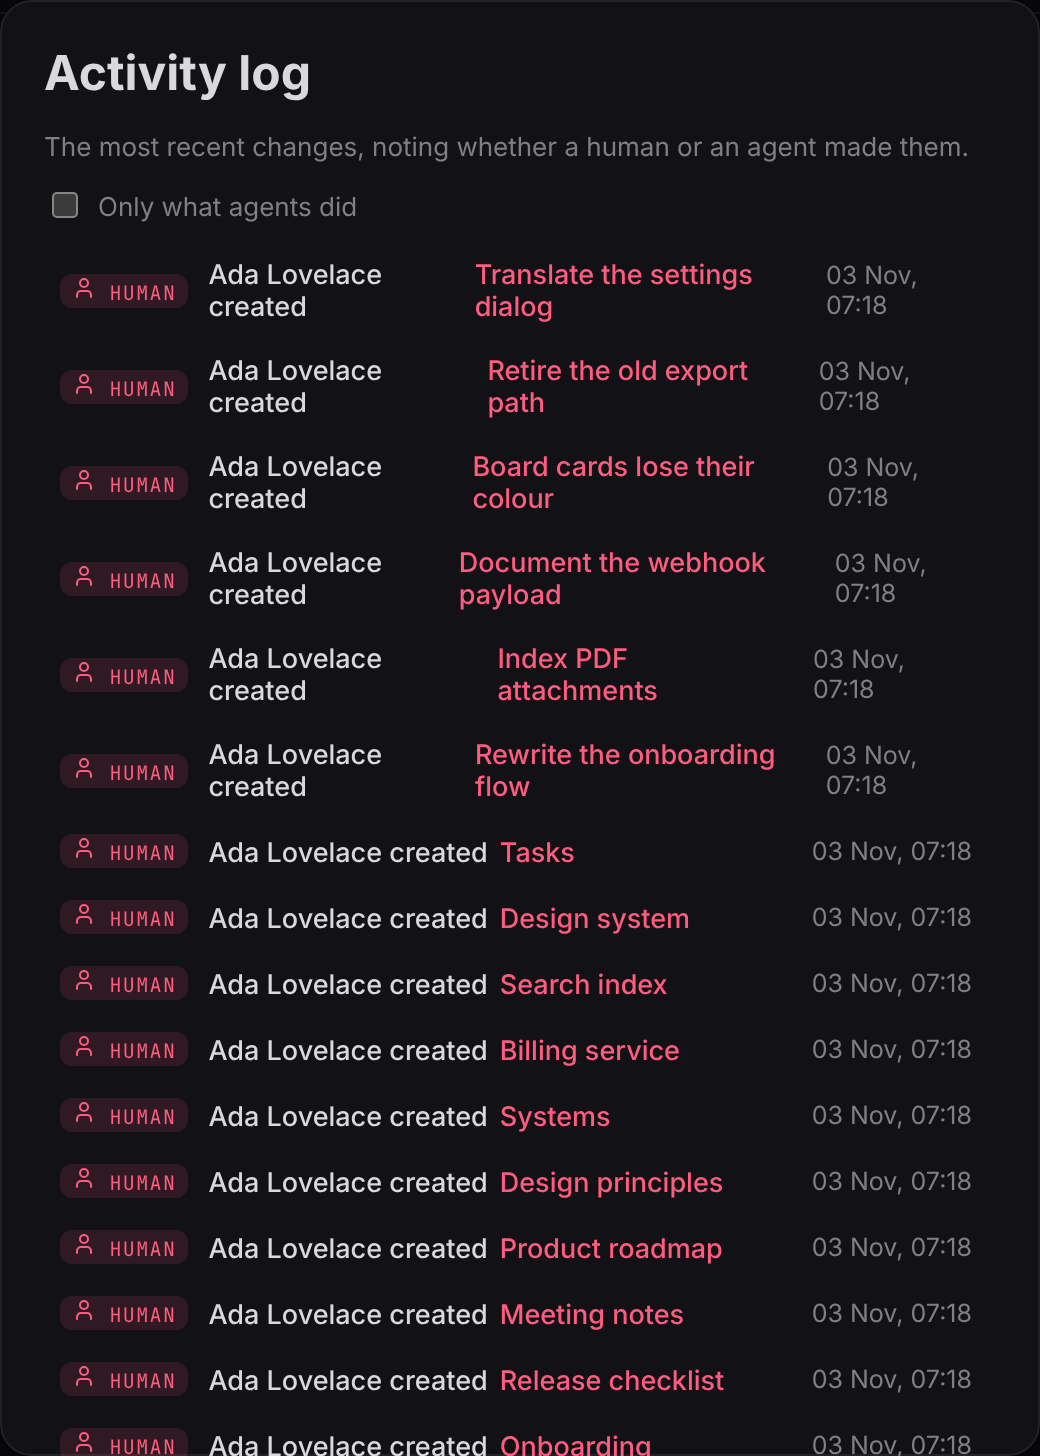
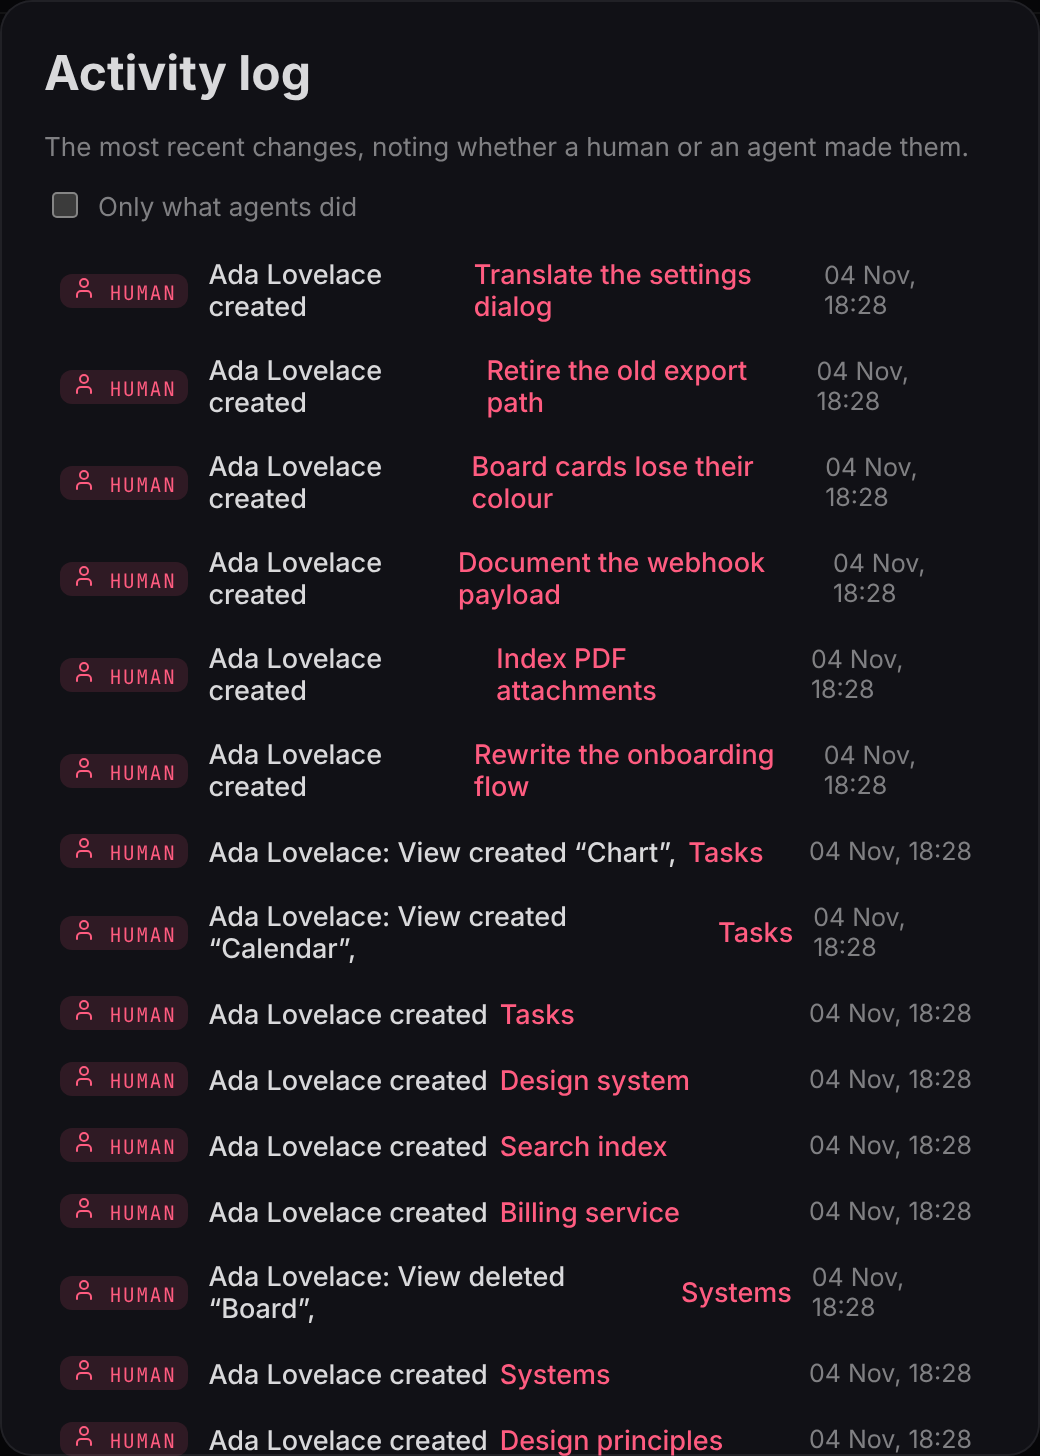
The wiki describes the views lock and view entries in the activity log
views.md gains "Locking a database's views": what is offered while
locked, what is not covered (rows, the schema, an embed's own filters),
the refusal, and that agents see the lock but cannot lift it. It also
corrected a claim that an open browser keeps old views until a reload:
it fetches them again when the database changes. history-and-audit.md
lists the view entries and that set_view/delete_view no longer write the
generic one; mcp-tools.md documents views_locked and the refusals.

The registry gains a View lock row: a new path that writes a database's
views calls checkViewsUnlocked and auditViewChanges, with a test.
The two activity-log screenshots are retaken.

Claude-Session: https://claude.ai/code/session_01GhcW33DagCpbrFHHXQVrFu

diff --git a/wiki/views.md b/wiki/views.md
@@ -495,6 +495,7 @@ right, with `›` where a further list opens:
 | **Remove view** | In red, last: removes this view (not its rows). Not offered when it is the only view. |
 | *Database settings* | |
 | **Edit properties** | The schema editor: add a property, change a type, edit select options. It edits the database, not the view, so it changes every view at once. This is what the empty-state messages point at. |
+| **Lock views** / **Unlock views** | Locks every view of this database against changes, or lifts the lock. See [Locking a database's views](#locking-a-databases-views). |
 
 Escape closes the menu and puts focus back on **Settings**. There is no item to
 change a view's type (a board into a table); create a new view instead.
@@ -685,9 +686,17 @@ missing.
 Changes save as you make them, and are what everybody gets the next time they
 open the collection. Row changes travel live: a card someone else moves moves on
 your screen too, in this collection and in the same collection embedded in a
-document. A change to the view itself (a filter, the sort, hidden columns, a new
-tab) does not. A second browser that already had the collection open keeps the
-configuration it fetched when it opened, and picks the new one up on a reload.
+document. A change to the views (a filter, the sort, hidden columns, a new tab,
+the lock) reaches a browser that already has the collection open too, within
+a second or so: it fetches the schema and the views again whenever the
+collection changes.
+
+Every change to a view that matters is in the [activity
+log](history-and-audit.md#what-is-recorded): a view created, removed or
+renamed, and a change to its filters, sort, grouping, dates or a chart's
+grouping, one entry per view. Column widths, column order, hidden columns, how
+rows open, a chart's style and a form's texts are left out, so a table resized
+ten times does not bury the change somebody is looking for.
 
 An embedded collection is the same collection, with the same views: changing a
 filter there changes it everywhere.
@@ -698,6 +707,46 @@ do. What it can do is copy a whole workspace's structure:
 take the databases with their schemas *and* their views, without rows and without
 documents. Filters on a relation are dropped on the way, since the rows they name
 are not copied.
+
+## Locking a database's views
+
+When a database's views are set up the way the team wants them, **Settings** →
+**Lock views** protects them from accidental changes. Anyone who can edit the
+database can lock and unlock; the lock is for everybody, on every view of that
+database, until somebody unlocks it.
+
+While the views are locked:
+
+- **Views locked** stands after the view tabs. Click it to see who locked them
+  and when. Readers see it too.
+- Nothing that changes a view is offered: **Settings** shows only **Edit
+  properties** and **Unlock views**; there is no `+` to add a view, no
+  right-click menu or double-click rename on the tabs, no moving, hiding or
+  resizing of columns, no **Group** on a board, no chart settings, and a form's
+  heading and description cannot be edited.
+- **Filter** and **Sort** are not offered on the database's own page either.
+  **Filtered** and **Sorted** beside the tabs say what the view does. Changing
+  a filter just for yourself, while the views stay as they are for everyone
+  else, is planned (spec 013) and not built yet.
+- Rows work as before: new rows, edits, moving a card between columns.
+- The schema is not locked: **Edit properties** still adds, renames and
+  changes properties. Removing a property that a view filters, sorts or groups
+  by is refused, because removing it would change that view; unlock first.
+- In a document, the database's own filter and sort controls stay: an
+  embedded database's filters and sort belong to the document, not to the
+  views, and the lock does not cover them.
+
+The server enforces it, not just the interface: a save that would change a
+locked view is refused with *This database's views are locked. Unlock them to
+change a view.*, from the browser, from a script and from an agent alike. A
+browser that still showed the controls when somebody else locked the views
+gets that message once, and the controls go.
+
+Agents see the lock but cannot lift it: `get_collection` returns
+`views_locked`, and `set_view` and `delete_view` refuse while it is on. Locking
+and unlocking need a browser sign-in (`PUT` and `DELETE
+/api/collections/{id}/lock`); an API token gets *This action requires signing
+in through a browser*. Both are recorded in the activity log.
 
 ## Views over MCP
 

diff --git a/wiki/mcp-tools.md b/wiki/mcp-tools.md
@@ -761,14 +761,16 @@ name`; `options on "Name" must be a list`.
 | --- | --- | --- |
 | `page_id` | string | yes |
 
-Returns `{page_id, schema, views}`: the full property schema **and** every view
+Returns `{page_id, schema, views, views_locked}`: the full property schema **and** every view
 with its id. A chart view carries `chartKind`, `groupBy`, `groupPeriod`, `agg`,
 `aggProp`, `showEmpty`, `showZero`, `chartSort`, `hiddenGroups` and
 `chartStyle` (see `set_view`). A view that opens its rows in a peek carries
 `"openIn": "side_peek"` or `"center_peek"`; no key means a full page (see
-`set_view`). Call this before any other database tool: property ids, select
-option ids and view ids all come from here. Errors: `page "…" is not a
-database`.
+`set_view`). `views_locked` is `{"by": "<user id>", "at": "<time>"}` when a
+person has locked the database's views, or `null`; while it is set, `set_view`
+and `delete_view` are refused. Call this before any other database tool:
+property ids, select option ids and view ids all come from here. Errors:
+`page "…" is not a database`.
 
 ### update_schema
 
@@ -1111,6 +1113,17 @@ database`; `filter N: unknown op "x". Use is, is_not, contains, gt, lt, between,
 is_empty or is_not_empty`; `view "…" not found — call get_collection for the
 ids`.
 
+**Refused while the database's views are locked** (`get_collection`'s
+`views_locked`): `this database's views are locked; a person can unlock them in
+the interface`. Nothing is changed. Locking and unlocking are for people in the
+browser only ([Agent access](agent-access.md)); a call that would leave the
+views exactly as they are still goes through.
+
+Each call is logged as the view entries it makes, as an agent: *View created*,
+*View renamed*, *View changed* (filters, sort, grouping, dates, a chart's
+grouping and totals). A call that changes only layout (hidden columns, column
+order, how rows open, a chart's style) leaves no entry.
+
 ### delete_view
 
 | Parameter | Type | Required |
@@ -1124,6 +1137,9 @@ deliberate choice and not a value an agent lands on by mistake.
 
 Errors: `cannot delete the last view — a database needs at least one`;
 `view "…" not found — call get_collection for the ids`.
+
+Refused while the database's views are locked (see `set_view`). Each deleted
+view is one *View deleted* entry in the activity log.
 
 ## History, comments and notes
 

diff --git a/wiki/history-and-audit.md b/wiki/history-and-audit.md
@@ -191,6 +191,8 @@ tail. An instance where nothing has happened says *Nothing has happened yet.*
 | deleted the workspace: / took over the workspace: / adopted the ownerless workspace: | workspace lifecycle |
 | handed the instance to: | the owner role moved to another account |
 | took emergency access: / ended the emergency access: | see below |
+| View created / View deleted / View renamed / View changed | a database's view, by a person or an agent; the entry names the view (both names for a rename) and links the database. *View changed* is a change to its filters, sort, grouping, dates or a chart's grouping and totals. Column widths, column order, hidden columns, how rows open, a chart's style and a form's texts leave no entry. |
+| Views locked by … / Views unlocked by … | somebody locked or unlocked a database's views ([Views](views.md#locking-a-databases-views)) |
 
 Note what *changed* does **not** cover: `update_page` over MCP touches metadata
 only, and refuses a call that names none of those six fields. It never writes a
@@ -209,9 +211,14 @@ it any more.
 
 **Every mutating call an agent makes is one entry**, filed under the tool's own
 name, with the account's name and *(MCP)* after it, and the tool's reply as the
-detail. Two tools are deliberately not double-recorded: an agent's check-in
-writes its own entry with the note as the detail, and `note` writes nothing here
-because the raw trail on the page already is the record.
+detail. Four tools are deliberately not double-recorded: an agent's check-in
+writes its own entry with the note as the detail, `note` writes nothing here
+because the raw trail on the page already is the record, and `set_view` and
+`delete_view` write the view entries above instead, one per changed view, and
+none for a change of layout only.
+
+**Take back** is offered only for property changes. A view entry keeps the
+view's filters (or name) before and after, but taking it back is not built.
 
 A [form](forms.md) submitted by somebody with no account appears as *public
 form* creating a page: the form is the actor.

diff --git a/.specify/memory/surfaces.md b/.specify/memory/surfaces.md
@@ -35,3 +35,4 @@ concept only matters to one feature, it stays in that feature's plan.
 | Stored data | A change to what is stored (a table, a column, an index, a JSON shape inside a column) is a new upgrade step in `server/upgrade_steps.go` with a fixture database written just before it (`server/testdata/upgrade/step-<N-1>.db`); an earlier step is never edited (`TestUpgradeStepOneIsFrozen`, `check-upgrades.mjs`). Expand first, contract in a later release | backend | 2026-10-29 | spec 008 |
 | Outside names | A name something outside this code depends on (environment variable, cookie, header, browser-storage key, file in the data directory, archive entry, command, service unit, image, app id, URL scheme, calendar id) is never renamed silently: the plan gives it one of three treatments (moved once, refused with a sentence, or gone and named in the release notes) and lists it as spec 011's `data-model.md` does; `check-names.mjs` keeps the old names out | backend | 2026-10-29 | spec 011 |
 | Menu icons | A new menu is built with `ui/Menu`, never by hand (a right-click opens the same `Menu` at the pointer); a new menu item is a `MenuItem` with a function from `web/src/menuIcons.ts`; a new function gets an icon no other function has, and a function keeps one icon in every menu; a list of values inside a menu is a `MenuValues` with its reason; `check-menu-icons.mjs` enforces it, the editor library's `/` and block menu items included | ui | 2026-11-03 | spec 010 |
+| View lock | A new path that writes a database's views (a route, a tool, an import or copy that rewrites an existing database's views) calls `checkViewsUnlocked` before it saves and `auditViewChanges` after, and a test with the lock on shows it refused (`TestEveryViewDoorIsRefusedWhileLocked` lists the doors by calling them) | backend | 2026-11-04 | spec 013 |

diff --git a/specs/013-view-filters-and-lock/tasks.md b/specs/013-view-filters-and-lock/tasks.md
@@ -60,8 +60,8 @@ description: "Tasks for a view's filters changed for oneself, quick filters, sub
 - [x] T013 [US5] [test] Go tests: each kind once, by REST and MCP with the right actor type; one save changing two views makes two entries; widths, order, hidden, open-in and chart style make none. Mutation-checked
 - [x] T014 [US5] [ui] `ActivityModal` (`web/src/components/UserMenu.tsx`): labels for the five actions, naming the view, and their de/es/nl strings
 - [x] T015 [US5] [test] New `web/tests/activity-views.mjs`, registered: rename, re-filter, delete, lock appear; a column resize does not
-- [ ] T016 [P] [US2] [wiki] `wiki/views.md` and `wiki/collections.md` (the lock), the page describing the activity log (view entries), `wiki/mcp-tools.md` (refusals, `views_locked`), `docs/what-it-does.md`
-- [ ] T017 [US2] [backend] `.specify/memory/surfaces.md`: the **View lock** row of research R11, Since the merge date
+- [x] T016 [P] [US2] [wiki] `wiki/views.md` and `wiki/collections.md` (the lock), the page describing the activity log (view entries), `wiki/mcp-tools.md` (refusals, `views_locked`), `docs/what-it-does.md`
+- [x] T017 [US2] [backend] `.specify/memory/surfaces.md`: the **View lock** row of research R11, Since the merge date
 - [ ] T018 [test] Before PR 1 is offered: gate green; `codegraph sync` and `codegraph callers` on `checkViewsUnlocked`, `auditViewChanges`; `/code-review`; `/security-review` (a new gate and session-only routes); `ux-ui-audit` on the lock in light and dark at desktop and phone width; findings fixed or filed
 
 ---

diff --git a/docs/what-it-does.md b/docs/what-it-does.md
@@ -63,7 +63,11 @@ people outside the workspace can submit entries into it. A row added in a
 filtered view starts with the values that view filters on, so it stays in sight. A view
 can open its rows in a peek, beside the view or over it, instead of as a full page.
 A table's columns move by dragging their headings, in that view only, and an
-agent can set the same order.
+agent can set the same order. A database's views can be locked so nobody changes
+them by accident, people and agents alike, while its rows stay editable; only a
+person can unlock them. Every change to a view (created, renamed, re-filtered,
+removed, locked) is in the activity log, saying whether a person or an agent
+made it.
 
 ### Finding things
 

diff --git a/wiki/collections.md b/wiki/collections.md
@@ -332,6 +332,10 @@ multi-select, date, checkbox and person. A relation, backrelation, rollup,
 formula, checklist or URL property never appears on a form, in the app or on
 the public link, even when the view shows it everywhere else.
 
+A database's views can be locked against accidental changes, under
+**Settings** → **Lock views**; rows stay editable. See [Locking a database's
+views](views.md#locking-a-databases-views).
+
 ## Editing the schema
 
 **Settings** › **Edit properties** in the toolbar opens the **Collection
